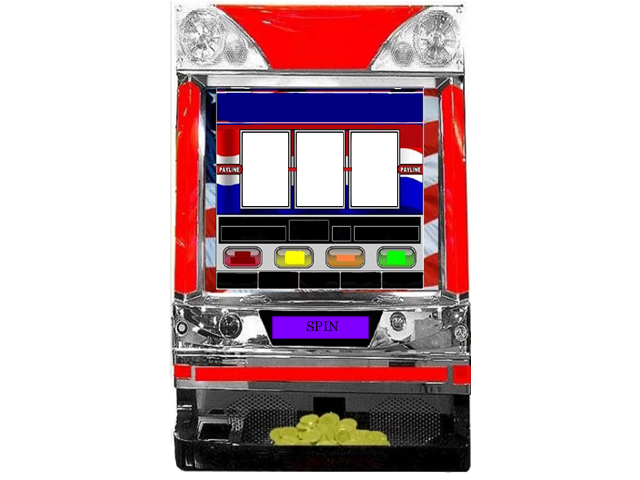
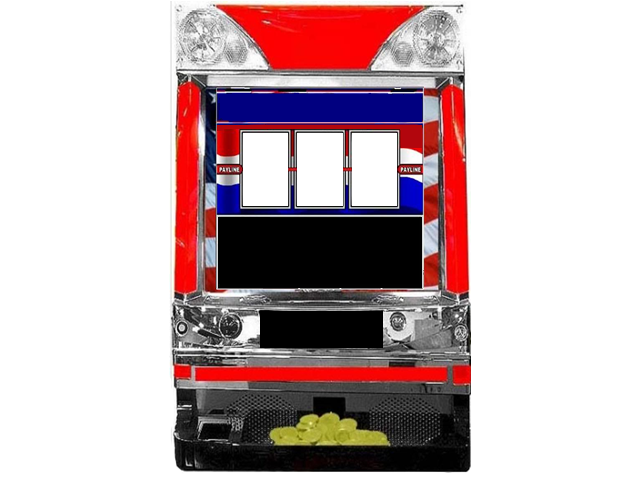
added buttons

Changed region(s): [[0.3125, 0.4688, 0.6875, 0.5938], [0.4062, 0.6562, 0.625, 0.75], [0.4688, 0.4375, 0.5, 0.4688]]

diff --git a/Scripts/scenes/slotmachine.ts b/Scripts/scenes/slotmachine.ts
@@ -3,6 +3,13 @@ module scenes {
     export class SlotMachine extends objects.Scene {
         //PRIVATE INSTANCE VARIABLES ++++++++++++
         private _backgroundImage: createjs.Bitmap;
+        private _bet5Button:objects.Button;
+        private _bet10Button:objects.Button;
+        private _bet100Button:objects.Button;
+        private _spinButton:objects.Button;
+        private _exitButton:objects.Button;
+        private _resetButton:objects.Button;
+        
         // CONSTRUCTOR ++++++++++++++++++++++
         constructor() {
             super();
@@ -15,7 +22,14 @@ module scenes {
             //add background image to scene 
             this._backgroundImage = new createjs.Bitmap(assets.getResult("SlotMachine"));
             this.addChild(this._backgroundImage);
-        
+            
+            //add bet buttons to the scene
+            this._bet5Button = new objects.Button("Bet5Button",228, 224, false);
+            this._bet10Button = new objects.Button("Bet10Button",294, 224, false);
+            this._bet100Button = new objects.Button("Bet100Button",360, 224, false);
+            this._spinButton = new objects.Button("SpinButton",260, 311, false);
+            this._exitButton = new objects.Button("ExitButton",413, 15, false);
+            this._resetButton = new objects.Button("ResetButton",182, 15, false);
             // add this scene to the global stage container
             stage.addChild(this);
         }

diff --git a/Scripts/core/game.ts b/Scripts/core/game.ts
@@ -14,12 +14,18 @@ var menu: scenes.Menu;
 var slotMachine: scenes.SlotMachine;
 var gameOver: scenes.GameOver;
 
-var assetData:objects.Asset[] = [
-    {id: "BackButton", src:"../../Assets/images/BackButton.png"},
-    {id: "Nextbutton", src:"../../Assets/images/Nextbutton.png"},
-    {id: "StartButton", src:"../../Assets/images/StartButton.png"},
-    {id: "StartOverButton", src:"../../Assets/images/StartOverButton.png"},
-    {id: "SlotMachine", src:"../../Assets/images/SlotMachine.png"}
+var assetData: objects.Asset[] = [
+    { id: "BackButton", src: "../../Assets/images/BackButton.png" },
+    { id: "Nextbutton", src: "../../Assets/images/NextButton.png" },
+    { id: "StartButton", src: "../../Assets/images/StartButton.png" },
+    { id: "StartOverButton", src: "../../Assets/images/StartOverButton.png" },
+    { id: "SlotMachine", src: "../../Assets/images/SlotMachine.png" },
+    { id: "Bet100Button", src: "../../Assets/images/Bet100Button.png" },
+    { id: "Bet10Button", src: "../../Assets/images/Bet10Button.png" },
+    { id: "Bet5Button", src: "../../Assets/images/Bet5Button.png" },
+    { id: "ResetButton", src: "../../Assets/images/ResetButton.png" },
+    { id: "ExitButton", src: "../../Assets/images/ExitButton.png" },
+    { id: "SpinButton", src: "../../Assets/images/SpinButton.png" }
 ];
 
 function preload() {

diff --git a/Scripts/core/game.js b/Scripts/core/game.js
@@ -12,10 +12,16 @@ var slotMachine;
 var gameOver;
 var assetData = [
     { id: "BackButton", src: "../../Assets/images/BackButton.png" },
-    { id: "Nextbutton", src: "../../Assets/images/Nextbutton.png" },
+    { id: "Nextbutton", src: "../../Assets/images/NextButton.png" },
     { id: "StartButton", src: "../../Assets/images/StartButton.png" },
     { id: "StartOverButton", src: "../../Assets/images/StartOverButton.png" },
-    { id: "SlotMachine", src: "../../Assets/images/SlotMachine.png" }
+    { id: "SlotMachine", src: "../../Assets/images/SlotMachine.png" },
+    { id: "Bet100Button", src: "../../Assets/images/Bet100Button.png" },
+    { id: "Bet10Button", src: "../../Assets/images/Bet10Button.png" },
+    { id: "Bet5Button", src: "../../Assets/images/Bet5Button.png" },
+    { id: "ResetButton", src: "../../Assets/images/ResetButton.png" },
+    { id: "ExitButton", src: "../../Assets/images/ExitButton.png" },
+    { id: "SpinButton", src: "../../Assets/images/SpinButton.png" }
 ];
 function preload() {
     assets = new createjs.LoadQueue();

diff --git a/Scripts/objects/button.ts b/Scripts/objects/button.ts
@@ -1,19 +1,22 @@
 module objects {
     export class Button extends createjs.Bitmap {
         //PRIVATE INSTANCE VARIABLES
-        width: number;
-        height: number;
+        public width: number;
+        public height: number;
+      
         //CONSTRUCTOR
-        constructor(pathString:string, x:number, y: number) {
+        constructor(pathString: string, x: number, y: number, public isCentered: boolean) {
             super(assets.getResult(pathString));
             this.x = x;
-            this.y = y; 
+            this.y = y;
 
             this.width = 150;
             this.height = 50;
 
-            this.regX = this.width * 0.5;
-            this.regY = this.height * 0.5;
+            if (this.isCentered) {
+                this.regX = this.width * 0.5;
+                this.regY = this.height * 0.5;
+            }
 
             this.on("mouseover", this.overButton, this);
             this.on("mouseout", this.outButton, this);

diff --git a/Scripts/scenes/slotmachine.js b/Scripts/scenes/slotmachine.js
@@ -18,6 +18,13 @@ var scenes;
             //add background image to scene 
             this._backgroundImage = new createjs.Bitmap(assets.getResult("SlotMachine"));
             this.addChild(this._backgroundImage);
+            //add bet buttons to the scene
+            this._bet5Button = new objects.Button("Bet5Button", 228, 224, false);
+            this._bet10Button = new objects.Button("Bet10Button", 294, 224, false);
+            this._bet100Button = new objects.Button("Bet100Button", 360, 224, false);
+            this._spinButton = new objects.Button("SpinButton", 260, 311, false);
+            this._exitButton = new objects.Button("ExitButton", 413, 15, false);
+            this._resetButton = new objects.Button("ResetButton", 182, 15, false);
             // add this scene to the global stage container
             stage.addChild(this);
         };

diff --git a/Scripts/objects/button.js b/Scripts/objects/button.js
@@ -8,14 +8,17 @@ var objects;
     var Button = (function (_super) {
         __extends(Button, _super);
         //CONSTRUCTOR
-        function Button(pathString, x, y) {
+        function Button(pathString, x, y, isCentered) {
             _super.call(this, assets.getResult(pathString));
+            this.isCentered = isCentered;
             this.x = x;
             this.y = y;
             this.width = 150;
             this.height = 50;
-            this.regX = this.width * 0.5;
-            this.regY = this.height * 0.5;
+            if (this.isCentered) {
+                this.regX = this.width * 0.5;
+                this.regY = this.height * 0.5;
+            }
             this.on("mouseover", this.overButton, this);
             this.on("mouseout", this.outButton, this);
         }

diff --git a/Scripts/scenes/gameover.js b/Scripts/scenes/gameover.js
@@ -19,7 +19,7 @@ var scenes;
             this._gameOverLabel = new objects.Label("GAME OVER", "60px Consolas", "#000000", config.Screen.CENTER_X, config.Screen.CENTER_Y);
             this.addChild(this._gameOverLabel);
             // add the START button to the MENU scene
-            this._startOverButton = new objects.Button("StartButton", config.Screen.CENTER_X, config.Screen.CENTER_Y + 80);
+            this._startOverButton = new objects.Button("StartButton", config.Screen.CENTER_X, config.Screen.CENTER_Y + 80, true);
             this.addChild(this._startOverButton);
             // START Button event listener
             this._startOverButton.on("click", this._startOverButtonClick, this);

diff --git a/Scripts/scenes/menu.js b/Scripts/scenes/menu.js
@@ -19,7 +19,7 @@ var scenes;
             this._welcomeLabel = new objects.Label("SLOT MACHINE", "60px Consolas", "#000000", config.Screen.CENTER_X, config.Screen.CENTER_Y);
             this.addChild(this._welcomeLabel);
             // add the START button to the MENU scene
-            this._startButton = new objects.Button("StartButton", config.Screen.CENTER_X, config.Screen.CENTER_Y + 80);
+            this._startButton = new objects.Button("StartButton", config.Screen.CENTER_X, config.Screen.CENTER_Y + 80, true);
             this.addChild(this._startButton);
             // START Button event listener
             this._startButton.on("click", this._startButtonClick, this);

diff --git a/Scripts/scenes/gameover.ts b/Scripts/scenes/gameover.ts
@@ -28,7 +28,7 @@ module scenes {
             this._startOverButton = new objects.Button(
                 "StartButton",
                 config.Screen.CENTER_X,
-                config.Screen.CENTER_Y + 80);
+                config.Screen.CENTER_Y + 80, true);
             this.addChild(this._startOverButton);
             
             // START Button event listener

diff --git a/Scripts/scenes/menu.ts b/Scripts/scenes/menu.ts
@@ -27,7 +27,7 @@ module scenes {
             this._startButton = new objects.Button(
                 "StartButton",
                 config.Screen.CENTER_X,
-                config.Screen.CENTER_Y + 80);
+                config.Screen.CENTER_Y + 80, true);
             this.addChild(this._startButton);
             
             // START Button event listener
